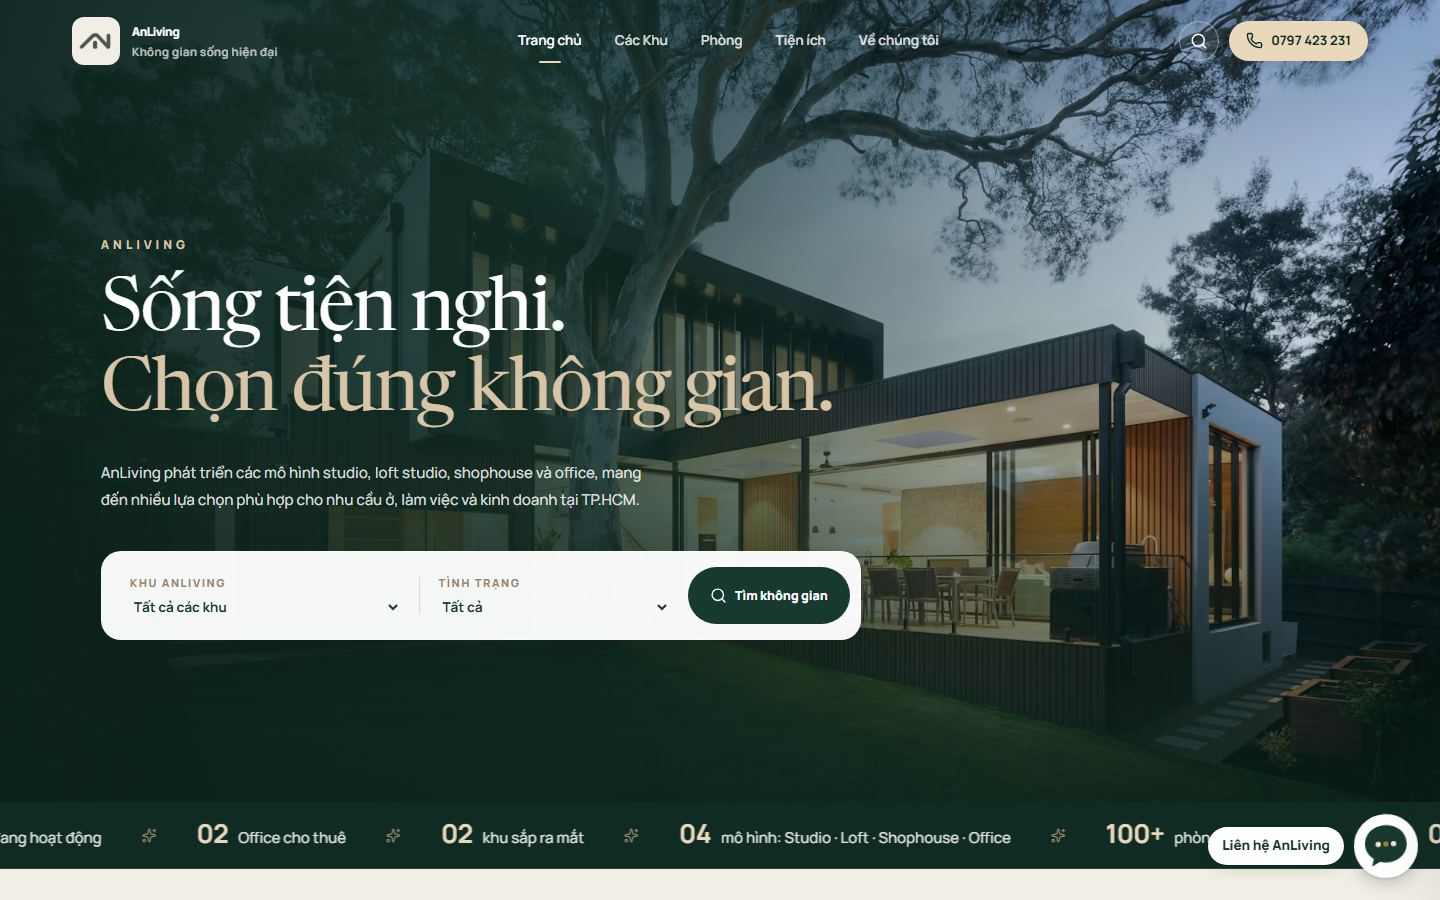
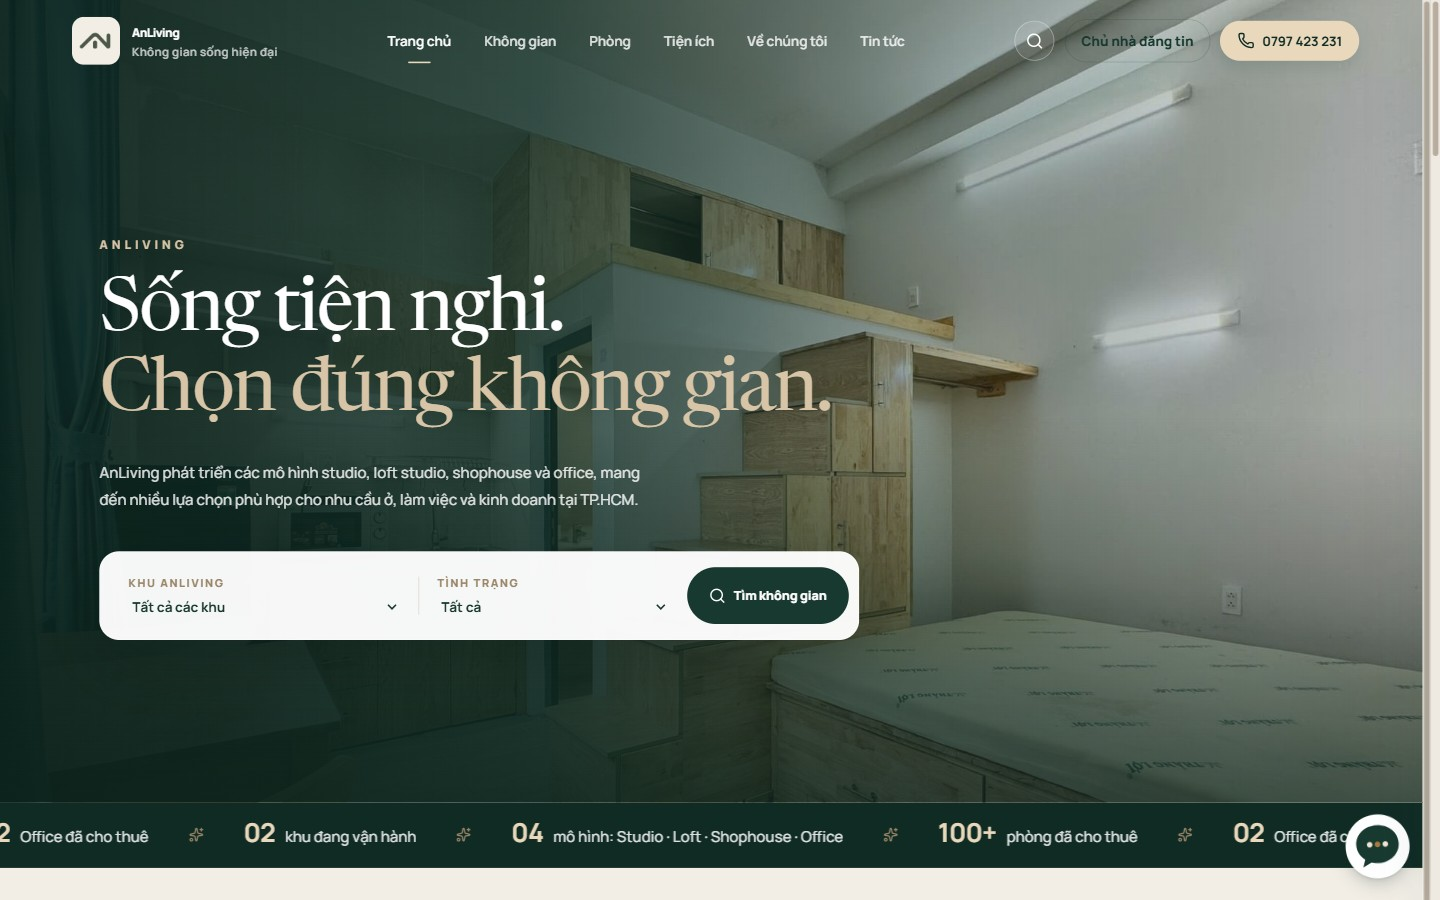
Cập nhật ảnh chụp theo giao diện mới; dẫn link web thay cho demo

diff --git a/README.md b/README.md
@@ -4,7 +4,7 @@ Dự án thực tế: web cho AnLiving, một bên cho thuê loft studio, studio
 
 Mình làm từ lúc ngồi nghe chủ nhà kể cần gì, phác giao diện, viết frontend, backend, cho tới đưa lên mạng và sửa lỗi khi có người dùng thật. Web vẫn đang được mình tiếp tục hoàn thiện.
 
-> Repo này mình để công khai để giới thiệu dự án. Code thật nằm ở repo riêng vì web đang chạy cho việc kinh doanh thật. Ai cần xem code thì nhắn mình, mình mở quyền hoặc demo trực tiếp.
+> Repo này mình để công khai để giới thiệu dự án. Code thật nằm ở repo riêng vì web đang chạy cho việc kinh doanh thật. Bạn có thể vào [anlivingspaces.com](https://anlivingspaces.com) để dùng thử trực tiếp.
 
 ![Trang chủ](docs/anh/trang-chu.jpg)
 
